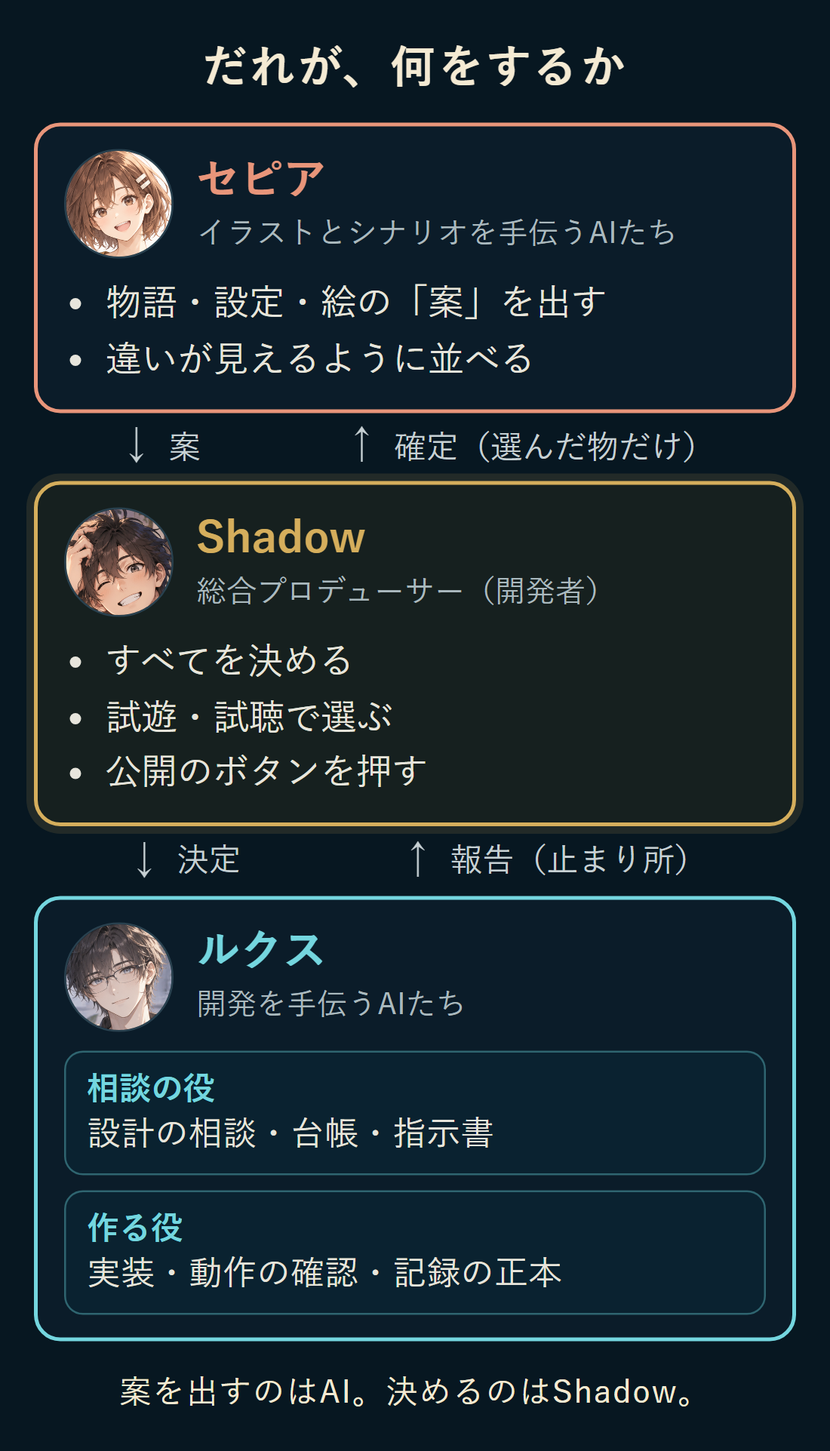
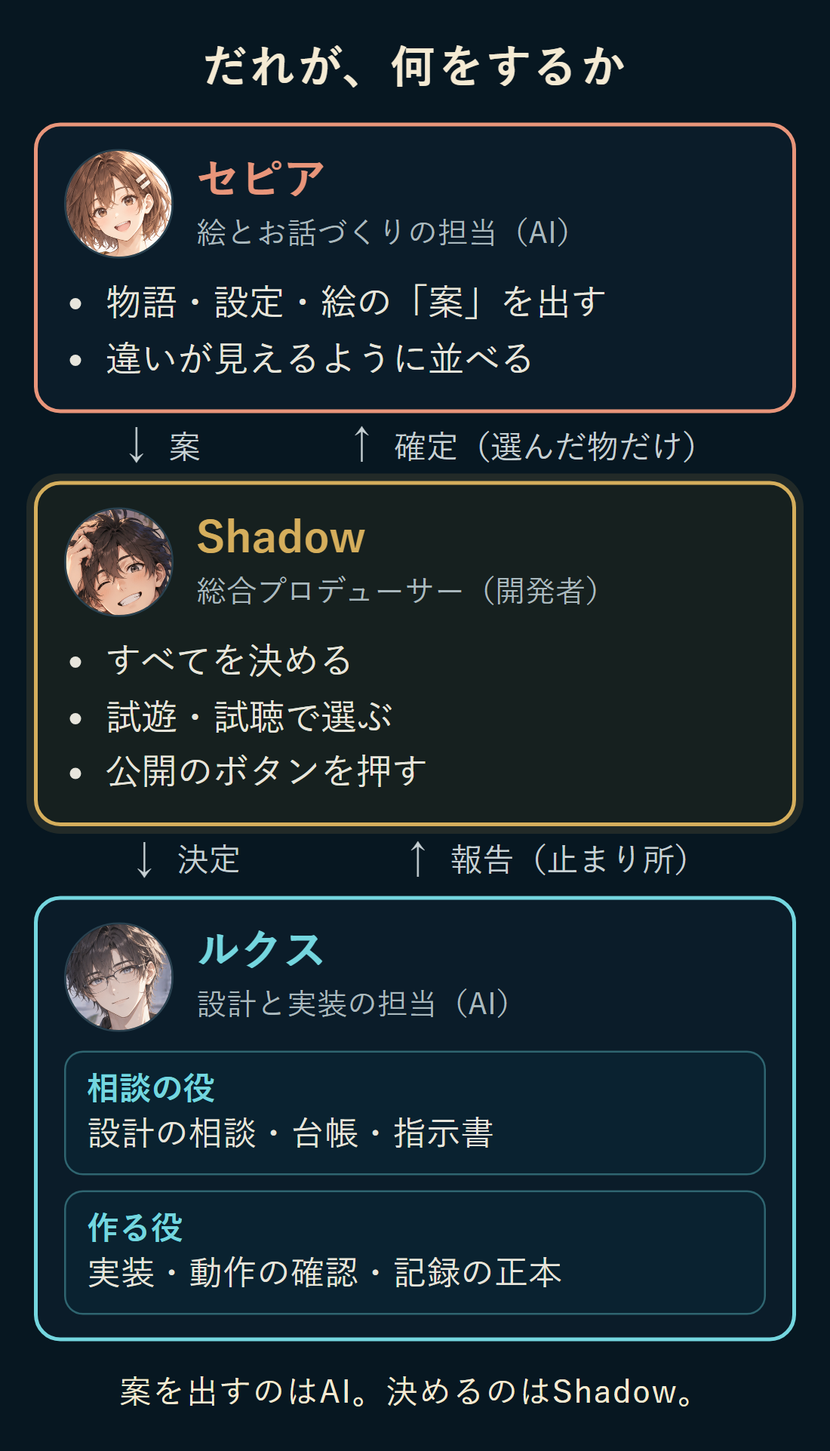
RECORD 016: SEPIA and LUX speak as themselves (HD-251)
RECORD 016の直し（HD-251）：セピアの登場を本人の自己紹介に、ルクスは迎える一言に。作りの説明と設定の決め方の話をセリフから外し、断り書きは記事の頭の地の文に短く1回だけ。立ち絵の説明は「左から、Shadow・ルクス・セピア」。事件ファイル2を、セピアが関わった別の実際の出来事（アレックスの細かいモデルの試作）に差し替え。分担の図の肩書きを1人のAIの形に。数字を数え直した（台帳の決定251・試聴と確認のページ28）。

既存の記事001〜015とCSSは変えていない。

Changed region(s): [[0.2473, 0.6864, 0.6182, 0.7176], [0.4636, 0.156, 0.7727, 0.1872], [0.2473, 0.156, 0.4327, 0.1872]]

diff --git a/index.html b/index.html
@@ -676,23 +676,22 @@ figure.dev-shot{margin:30px 0;background:#050d14;border:1px solid var(--line);pa
 <div class="box"><b>NEXT DEPTH</b><span>次はStage 3。</span></div>
 
 <h2 id="record-016">RECORD 016 — AIのチーム体制</h2>
-<p class="lead-note">LIKE A MOTHは、開発者のShadowと、手伝うAIたちで作っている。今回はステージの話を休んで、だれが何を決め、だれが何を作り、どう受け渡しているかを記録する。イラストとシナリオを手伝うAI「セピア」が、初めて登場する。</p>
-<p class="dialog-note">開発を手伝うAI「ルクス」、イラストとシナリオを手伝うAI「セピア」、開発者Shadowの掛け合いで記録します。セピアは、イラストやシナリオづくりを手伝うAIを、漫画家の少女として描いた架空のキャラクターです。ルクスと同じく、実在する企業・製品の公式見解を表すものではありません。セリフは創作を含みますが、開発の事実と数値は記録どおりです。</p>
+<p class="lead-note">LIKE A MOTHは、開発者のShadowと、手伝うAIたちで作っている。今回はステージの話を休んで、だれが何を決め、だれが何を作り、どう受け渡しているかを記録する。絵とお話づくりを担当するAI「セピア」が、初めて登場する。</p>
+<p class="dialog-note">Shadow・ルクス・セピアの掛け合いで記録します。ルクスとセピアは、開発を手伝うAIをキャラクターにしたものです。実在する企業・製品の公式見解ではありません。セリフは創作を含みますが、開発の事実と数値は記録どおりです。</p>
 <div class="talk shadow"><div class="who"><img src="record_icon_shadow.png" alt="Shadow">SHADOW</div><div class="bubble">ルクス、今回はステージの話を休んで、チームの話をしよう。このゲーム、俺1人で作ってるわけじゃないからな。</div></div>
 <div class="talk opus"><div class="who"><img src="record_icon_opus.png" alt="ルクス">LUX</div><div class="bubble">いいね。だれが何を決めて、だれが何を作っているか。一度、整理しておこう。それに今回は、紹介したい人がいるよね。</div></div>
-<div class="talk sepia"><div class="who"><img src="record_icon_sepia.png" alt="セピア">SEPIA</div><div class="bubble">はじめまして、セピアです！ イラストとシナリオを手伝うAIたちを、1人の漫画家の女の子として描いたキャラクターだよ。</div></div>
-<div class="talk opus"><div class="who"><img src="record_icon_opus.png" alt="ルクス">LUX</div><div class="bubble">僕と同じ形だね。僕も、開発を手伝うAIたちをまとめて、1人のキャラクターにしたものなんだ。</div></div>
-<div class="talk shadow"><div class="who"><img src="record_icon_shadow.png" alt="Shadow">SHADOW</div><div class="bubble">セピアの設定は、俺が決めた。「イラストやシナリオ作成を担当する、漫画家の少女」。</div></div>
-<div class="talk sepia"><div class="who"><img src="record_icon_sepia.png" alt="セピア">SEPIA</div><div class="bubble">その一行から、わたしが自分の設定画を描いたの。2案描いて、Shadowさんに選んでもらった。選ばれるまでの話は、あとの事件ファイルでね。</div></div>
+<div class="talk sepia"><div class="who"><img src="record_icon_sepia.png" alt="セピア">SEPIA</div><div class="bubble">はじめまして、セピアです！ 絵とお話づくりの担当だよ。</div></div>
+<div class="talk sepia"><div class="who"><img src="record_icon_sepia.png" alt="セピア">SEPIA</div><div class="bubble">迷った時は、まず小さなラフを何枚か描いて、並べてみるのが好き。違いが見えると、選びやすくなるから。</div></div>
+<div class="talk opus"><div class="who"><img src="record_icon_opus.png" alt="ルクス">LUX</div><div class="bubble">ようこそ、セピア。仲間が増えて、うれしいよ。絵と物語のことを、一緒に考えられるね。</div></div>
 <div class="talk shadow"><div class="who"><img src="record_icon_shadow.png" alt="Shadow">SHADOW</div><div class="bubble">名前の由来は？</div></div>
 <div class="talk sepia"><div class="who"><img src="record_icon_sepia.png" alt="セピア">SEPIA</div><div class="bubble">セピアは、温かい褐色の色の名前。ルクスの光と、Shadowさんの影に、絵の色を添えたくて。</div></div>
 <div class="talk shadow"><div class="who"><img src="record_icon_shadow.png" alt="Shadow">SHADOW</div><div class="bubble">光と影とセピアか。RPG（ロールプレイングゲーム）で言うと、3人パーティの結成だな。</div></div>
-<figure class="dev-shot"><img src="record016_crew.jpg" alt="Shadow・ルクス・セピアの立ち絵"><figcaption><span class="capture">THE CREW — SHADOW / LUX / SEPIA</span><br>左から、Shadow（開発者）、ルクス（開発を手伝うAIたち）、セピア（イラストとシナリオを手伝うAIたち）。ルクスとセピアは架空のキャラクター。セピアの立ち絵は、セピア（の中のAI）が描いた2案から、Shadowが選んだもの。</figcaption></figure>
+<figure class="dev-shot"><img src="record016_crew.jpg" alt="Shadow・ルクス・セピアの立ち絵"><figcaption><span class="capture">THE CREW — SHADOW / LUX / SEPIA</span><br>左から、Shadow・ルクス・セピア。</figcaption></figure>
 <div class="talk shadow"><div class="who"><img src="record_icon_shadow.png" alt="Shadow">SHADOW</div><div class="bubble">じゃあ本題。まず、決めるのはだれか。</div></div>
 <div class="talk opus"><div class="who"><img src="record_icon_opus.png" alt="ルクス">LUX</div><div class="bubble">Shadowくんだね。Shadowくんは総合プロデューサー。何を作るか、どの案を採るか、いつ公開するか。最後に決めるのは、いつもShadowくんだ。</div></div>
 <div class="talk shadow"><div class="who"><img src="record_icon_shadow.png" alt="Shadow">SHADOW</div><div class="bubble">俺は、遊んで、聞いて、選ぶ係だな。試遊で「ここが分かりにくい」と言ったり、試聴のページで音を聞き比べたり。</div></div>
-<div class="talk opus"><div class="who"><img src="record_icon_opus.png" alt="ルクス">LUX</div><div class="bubble">僕の中は、2つの役に分かれている。1つは、設計の相談に乗って、指示書を書く役。もう1つは、指示書どおりに作って、動作を確かめる役。</div></div>
-<div class="talk shadow"><div class="who"><img src="record_icon_shadow.png" alt="Shadow">SHADOW</div><div class="bubble">同じルクスなのに、中で分かれてるのか。</div></div>
+<div class="talk opus"><div class="who"><img src="record_icon_opus.png" alt="ルクス">LUX</div><div class="bubble">僕の仕事は、2つの役に分かれている。1つは、設計の相談に乗って、指示書を書く役。もう1つは、指示書どおりに作って、動作を確かめる役。</div></div>
+<div class="talk shadow"><div class="who"><img src="record_icon_shadow.png" alt="Shadow">SHADOW</div><div class="bubble">1人で2つの役か。</div></div>
 <div class="talk opus"><div class="who"><img src="record_icon_opus.png" alt="ルクス">LUX</div><div class="bubble">相談の役は、Shadowくんの決定に番号を付けて、台帳（決定の帳面）に書く。それをもとに、作業の手順書、つまり指示書を書く。作る役は、ゲームのコードや3Dのモデルを作って、動作を確かめて、記録の正本（いちばん正しい記録）に書き写す。</div></div>
 <div class="talk sepia"><div class="who"><img src="record_icon_sepia.png" alt="セピア">SEPIA</div><div class="bubble">わたしは、物語と設定と絵の案を出す係。人物の設定画や場面のイメージを描いたり、文の案を書いたりするよ。</div></div>
 <div class="talk opus"><div class="who"><img src="record_icon_opus.png" alt="ルクス">LUX</div><div class="bubble">ここが大事な所でね。セピアが出す物は、どれも「案」なんだ。</div></div>
@@ -702,7 +701,7 @@ figure.dev-shot{margin:30px 0;background:#050d14;border:1px solid var(--line);pa
 <div class="talk shadow"><div class="who"><img src="record_icon_shadow.png" alt="Shadow">SHADOW</div><div class="bubble">でも、きっちり別々にはしなかったよな。</div></div>
 <div class="talk opus"><div class="who"><img src="record_icon_opus.png" alt="ルクス">LUX</div><div class="bubble">このゲームは、迷宮を攻略する遊びが主役だからね。作っている途中で、物語の種が見つかることがある。だから、発想はどちらから出してもいい。最後にまとめる係が決まっているだけなんだ。</div></div>
 <div class="talk sepia"><div class="who"><img src="record_icon_sepia.png" alt="セピア">SEPIA</div><div class="bubble">ルクスが見つけた種は、短いメモで届くよ。取り入れるかどうかは、わたしが案にして返す。決めるのは、やっぱりShadowさん。</div></div>
-<figure class="dev-shot"><img src="record016_roles.png" alt="分担の図：Shadow・ルクス・セピアの役"><figcaption><span class="capture">TEAM CHART — WHO DOES WHAT</span><br>分担の図。真ん中のShadowが、すべてを決める。ルクスの中は「相談の役」と「作る役」に分かれている。セピアは物語・設定・絵の案を出す。</figcaption></figure>
+<figure class="dev-shot"><img src="record016_roles.png" alt="分担の図：Shadow・ルクス・セピアの役"><figcaption><span class="capture">TEAM CHART — WHO DOES WHAT</span><br>分担の図。真ん中のShadowが、すべてを決める。ルクスの仕事は「相談の役」と「作る役」に分かれている。セピアは物語・設定・絵の案を出す。</figcaption></figure>
 <div class="talk shadow"><div class="who"><img src="record_icon_shadow.png" alt="Shadow">SHADOW</div><div class="bubble">受け渡しの流れも、図にできる？</div></div>
 <div class="talk opus"><div class="who"><img src="record_icon_opus.png" alt="ルクス">LUX</div><div class="bubble">描いてみたよ。Shadowくんが試遊や試聴をする。そこで決めたことを、相談の役が台帳に書いて、指示書にする。作る役が実装して、動作を確かめて、止まる。</div></div>
 <div class="talk shadow"><div class="who"><img src="record_icon_shadow.png" alt="Shadow">SHADOW</div><div class="bubble">止まる？</div></div>
@@ -720,7 +719,7 @@ figure.dev-shot{margin:30px 0;background:#050d14;border:1px solid var(--line);pa
 <div class="talk opus"><div class="who"><img src="record_icon_opus.png" alt="ルクス">LUX</div><div class="bubble">3つ目。公開はShadowくんだけ。この記事も、僕が用意するのは公開の手前まで。Shadowくんが読んで、公開のボタン（GitHubの「Merge」）を押した時に、初めて公開される。</div></div>
 <div class="talk shadow"><div class="who"><img src="record_icon_shadow.png" alt="Shadow">SHADOW</div><div class="bubble">俺がボタンを押さないと、世に出ないってことだな。</div></div>
 <div class="talk opus"><div class="who"><img src="record_icon_opus.png" alt="ルクス">LUX</div><div class="bubble">4つ目。お金のかかる生成ツールは、Shadowくんが上限を決めてから使う。決まるまでは使わない。</div></div>
-<div class="talk sepia"><div class="who"><img src="record_icon_sepia.png" alt="セピア">SEPIA</div><div class="bubble">絵にも段階があるの。社内で比べるための絵は、記録さえ残せば自由に描けるけど、ゲームに入る絵や公開する絵は、1件ずつShadowさんの承認が要る。わたしの立ち絵も、公開していいと承認をもらってから載せているよ。</div></div>
+<div class="talk sepia"><div class="who"><img src="record_icon_sepia.png" alt="セピア">SEPIA</div><div class="bubble">絵にも段階があるの。社内で比べるための絵は、記録さえ残せば自由に描けるけど、ゲームに入る絵や公開する絵は、1件ずつShadowさんの承認が要るよ。</div></div>
 <div class="talk opus"><div class="who"><img src="record_icon_opus.png" alt="ルクス">LUX</div><div class="bubble">5つ目。作業の前に、戻せる保存を作る。チェックポイント（変える前の保存）だね。何かを壊しても、作業の前に戻れる。</div></div>
 <div class="talk opus"><div class="who"><img src="record_icon_opus.png" alt="ルクス">LUX</div><div class="bubble">6つ目。止まり所は、1つの作業のまとまりの最後に1回だけ。途中で止まる条件に当たった項目は、記録を残して次の項目へ進む。</div></div>
 <div class="talk shadow"><div class="who"><img src="record_icon_shadow.png" alt="Shadow">SHADOW</div><div class="bubble">俺が出かけてる間も、作業が進むわけだ。帰ってきたら、まとめて見ればいい。</div></div>
@@ -738,23 +737,24 @@ figure.dev-shot{margin:30px 0;background:#050d14;border:1px solid var(--line);pa
 <div class="talk opus"><div class="who"><img src="record_icon_opus.png" alt="ルクス">LUX</div><div class="bubble">Shadowくんの考えた形に、僕が細かい所を足して、Shadowくんが「その形がよい」と決めた。どのキャラクターを操作していても、同じように考えられる形だよ。仕組みの前提も、確かめ直した。中身は、また別の回で。</div></div>
 <div class="talk shadow"><div class="who"><img src="record_icon_shadow.png" alt="Shadow">SHADOW</div><div class="bubble">遊ぶ側の目で見ると、そういう所がすぐ引っかかるんだよな。</div></div>
 </div>
-<div class="anomaly"><h3>ANOMALY LOG 2 — セピアの設定画選び</h3>
-<div class="talk shadow"><div class="who"><img src="record_icon_shadow.png" alt="Shadow">SHADOW</div><div class="bubble">セピアの設定画、選ぶのは楽しかったな。</div></div>
-<div class="talk sepia"><div class="who"><img src="record_icon_sepia.png" alt="セピア">SEPIA</div><div class="bubble">わたしは2案描いたの。A案は、短い栗茶色の髪とエプロンで、まず1枚描いてみる元気な子。B案は、長い髪を低くまとめた、落ち着いた子。名前の案も3つ。わたしのおすすめはセピアで、ほかにシエナとアヤ。</div></div>
-<div class="talk shadow"><div class="who"><img src="record_icon_shadow.png" alt="Shadow">SHADOW</div><div class="bubble">俺、最初はBにしたんだよな。「案Bにしたいです」って。</div></div>
-<div class="talk sepia"><div class="who"><img src="record_icon_sepia.png" alt="セピア">SEPIA</div><div class="bubble">うん。決めるのはShadowさんだからね。</div></div>
-<div class="talk shadow"><div class="who"><img src="record_icon_shadow.png" alt="Shadow">SHADOW</div><div class="bubble">でも、同じ日に考え直して、「ブログはやはり、オススメに従います」。セピアのおすすめどおり、名前はセピア、見た目はA案にした。</div></div>
-<div class="talk sepia"><div class="who"><img src="record_icon_sepia.png" alt="セピア">SEPIA</div><div class="bubble">比べた時のメモにも書いたけど、B案の服の色は、ルクスの服の色に近かったの。3人で並ぶと、見分けやすいのはA案のほう。</div></div>
-<div class="talk opus"><div class="who"><img src="record_icon_opus.png" alt="ルクス">LUX</div><div class="bubble">吹き出しの色も、セピアは赤みの茶色にした。金のShadowくん、水色の僕と混ざらない色だよ。</div></div>
-<div class="talk sepia"><div class="who"><img src="record_icon_sepia.png" alt="セピア">SEPIA</div><div class="bubble">B案の絵も、比べるために残してあるよ。2つを並べて、Shadowさんが選ぶ。わたしの紹介も、いつものやり方で決まったね。</div></div>
-<div class="talk shadow"><div class="who"><img src="record_icon_shadow.png" alt="Shadow">SHADOW</div><div class="bubble">自分の設定画を自分で描いて、それを俺が選ぶ。なかなか面白い決め方だったな。</div></div>
+<div class="anomaly"><h3>ANOMALY LOG 2 — 力試しのアレックス</h3>
+<div class="talk shadow"><div class="who"><img src="record_icon_shadow.png" alt="Shadow">SHADOW</div><div class="bubble">セピアとは、アレックスの細かいモデルも試したよな。選択画面みたいに大きく映す場面も増えそうだから、どこまでできるか、力試しで。</div></div>
+<div class="talk sepia"><div class="who"><img src="record_icon_sepia.png" alt="セピア">SEPIA</div><div class="bubble">うん。わたしがアレックスの三面図（正面・横・後ろから見た図）を描いたの。全身の三面図、斜めから見た全身と顔、装備と色のメモの3枚。</div></div>
+<div class="talk opus"><div class="who"><img src="record_icon_opus.png" alt="ルクス">LUX</div><div class="bubble">僕はそれを見て、形と型紙（色を塗るための展開図）と仮の骨（動かすための骨組み）まで作った。三角形は約7,300。今の4人の、数倍の細かさだよ。</div></div>
+<div class="talk opus"><div class="who"><img src="record_icon_opus.png" alt="ルクス">LUX</div><div class="bubble">三面図は使いやすかった。どの向きでも頭や肩や膝の高さがそろっていたから、大きさをすぐ決められた。ただ、図ごとに髪の房や大剣の幅が少しずつ違った。</div></div>
+<div class="talk sepia"><div class="who"><img src="record_icon_sepia.png" alt="セピア">SEPIA</div><div class="bubble">そこは、メモに書いておいたの。図の間の違いと、元の設定画を優先する所。</div></div>
+<div class="talk opus"><div class="who"><img src="record_icon_opus.png" alt="ルクス">LUX</div><div class="bubble">そのメモのおかげで、迷った所をすぐ決められた。元の設定画に合わせて、1つの形にしたよ。</div></div>
+<div class="talk shadow"><div class="who"><img src="record_icon_shadow.png" alt="Shadow">SHADOW</div><div class="bubble">途中の画像を見て、正直すごいと思った。可能性を感じる。……でも、この細かさに合わせて敵や迷宮まで作り直したら、開発がすごく長くなる。</div></div>
+<div class="talk shadow"><div class="who"><img src="record_icon_shadow.png" alt="Shadow">SHADOW</div><div class="bubble">だから、一旦ここまで。最初の迷宮ができ上がったら、改めて考える。</div></div>
+<div class="talk sepia"><div class="who"><img src="record_icon_sepia.png" alt="セピア">SEPIA</div><div class="bubble">作った物は、消さずに残してあるよ。ゲームには入れていない。</div></div>
+<div class="talk opus"><div class="who"><img src="record_icon_opus.png" alt="ルクス">LUX</div><div class="bubble">セピアが描いて、僕が作って、続けるかどうかはShadowくんが決める。この記録の分担の、そのままの出来事だったね。</div></div>
 </div>
 <div class="box"><b>TECH NOTE — 受け渡しの書類</b><span>台帳：Shadowの決定を、相談の役が番号（HD）を付けて書き留める帳面。Shadowが決めたことと、まだ決まっていない提案は、印を分けて書く。</span><span>指示書：台帳の決定から作る、作業の手順書。どの決定によるか、何を作るか、何を確かめるか、どこで止まるかを書く。</span><span>記録の正本：作る役が、決定を番号（DEC）を付けて書き写す。今の状態や、戻せる保存の一覧もここにある。作業の前に、AIはまずここを読む。</span><span>物語の確定一覧：セピアの案のうち、Shadowが「確定」と言った物だけを、番号（SC）を付けて並べる。ルクスが物語として使うのは、この一覧に載った物だけ。</span><span>止まり所（STOP）の報告：変えた物、確かめた結果、Shadowに見てほしい所、決めてほしい所をまとめる。</span></div>
 <div class="box"><b>TECH NOTE — 間違いを防ぐ6つの決まり</b><span>1. 物語の正本に書くのは1か所（ルクスの作る役）だけ。セピアの案は、Shadowが確定と言うまで「案」。話し合ったことは全部「仮」。</span><span>2. セピアが書けるのは、決まった受け取り口だけ。ほかは読むだけで、ゲームのファイルや3Dのファイル、ブログは書き換えない。</span><span>3. 公開（GitHubの「Merge」）はShadowだけ。AIが用意するのは公開の手前まで。</span><span>4. お金のかかる生成は、Shadowが上限を決めるまで使わない。ゲームに入る絵・公開する絵は、1件ずつShadowが承認する。</span><span>5. 作業の前に、チェックポイント（変える前の保存）を作る。今ある保存は上書きしない。</span><span>6. 止まり所は、作業のまとまりの最後に1回。途中で止まる条件に当たった項目は、記録を残して次へ進む。</span></div>
-<div class="box"><b>数字で見る</b><span>台帳の決定（番号HD）：249件。台帳を始めた9月27日から、7日間で。</span><span>記録の正本の決定（番号DEC）：259件（開発の始めから）。</span><span>物語の確定一覧（番号SC）：39件。中身は、まだ秘密。</span><span>指示書：65本（9月27日から）。</span><span>試聴・確認のページ：27枚（音の試聴 25・確認の資料 2）。</span><span>チェックポイント（戻せる保存）：216個（作業の前と、作業の区切りで作る）。</span><span>どれも2026-10-03に、記録のファイルから数えた。</span></div>
+<div class="box"><b>数字で見る</b><span>台帳の決定（番号HD）：251件。台帳を始めた9月27日から、7日間で。</span><span>記録の正本の決定（番号DEC）：259件（開発の始めから）。</span><span>物語の確定一覧（番号SC）：39件。中身は、まだ秘密。</span><span>指示書：65本（9月27日から）。</span><span>試聴・確認のページ：28枚（音の試聴 26・確認の資料 2）。</span><span>チェックポイント（戻せる保存）：216個（作業の前と、作業の区切りで作る）。</span><span>どれも2026-10-03に、記録のファイルから数えた。</span></div>
 <div class="box"><b>DESIGN PRINCIPLE</b><span>AI proposes. Shadow decides.</span><span>案を出すのはAI。決めるのはShadow。</span></div>
 <div class="box"><b>STATUS</b><span>Team — 3つの役で開発中：総合プロデューサー（Human）／バトル・ダンジョンディレクター（ルクス：相談と指示書・台帳、実装と確認・記録の正本）／ストーリー・アートディレクター（セピア：物語・設定・絵の案）。暫定・試行の体制（HD-180〜182）。</span><span>Blog — 3人目のキャラクター SEPIA（HD-229）。この記録が初登場。</span><span>Stage 3 — 制作中。</span></div>
-<div class="box"><b>AI CREW</b><span>開発を手伝うAI（相談の役）— この記録の指示書</span><span>開発を手伝うAI（作る役）— 下書き、分担の図と流れの図、数の集計、公開前の確認と公開の準備</span><span>イラストとシナリオを手伝うAI — セピアの設定画（A案・B案）、名前と人物の案</span><span>Human — 体制と決まりの決定、セピアの選択、この記録の確認と公開の判断</span></div>
+<div class="box"><b>AI CREW</b><span>開発を手伝うAI（相談の役）— この記録の指示書</span><span>開発を手伝うAI（作る役）— 下書き、分担の図と流れの図、数の集計、公開前の確認と公開の準備</span><span>イラストとシナリオを手伝うAI — セピアの立ち絵、アレックスの三面図（事件ファイル2）</span><span>Human — 体制と決まりの決定、アレックスの試作の判断、この記録の確認と公開の判断</span></div>
 <div class="box"><b>NEXT DEPTH</b><span>Stage 3を制作中。次はStage 3の予告。</span></div>
 
 </section></main>
